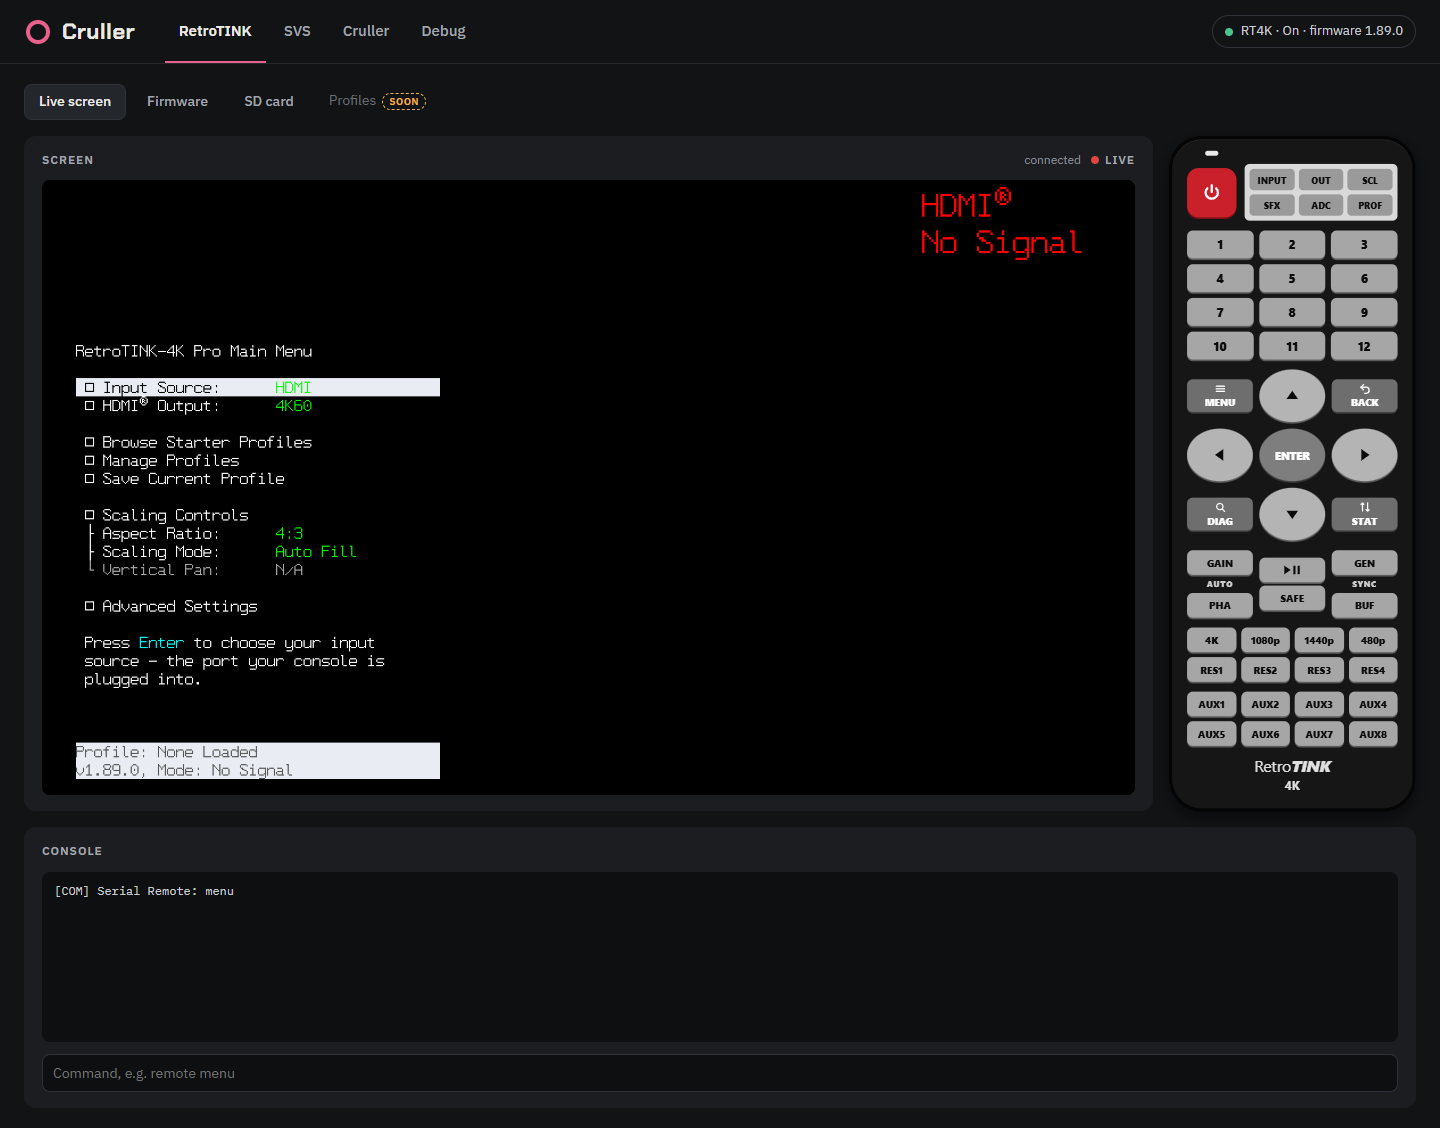
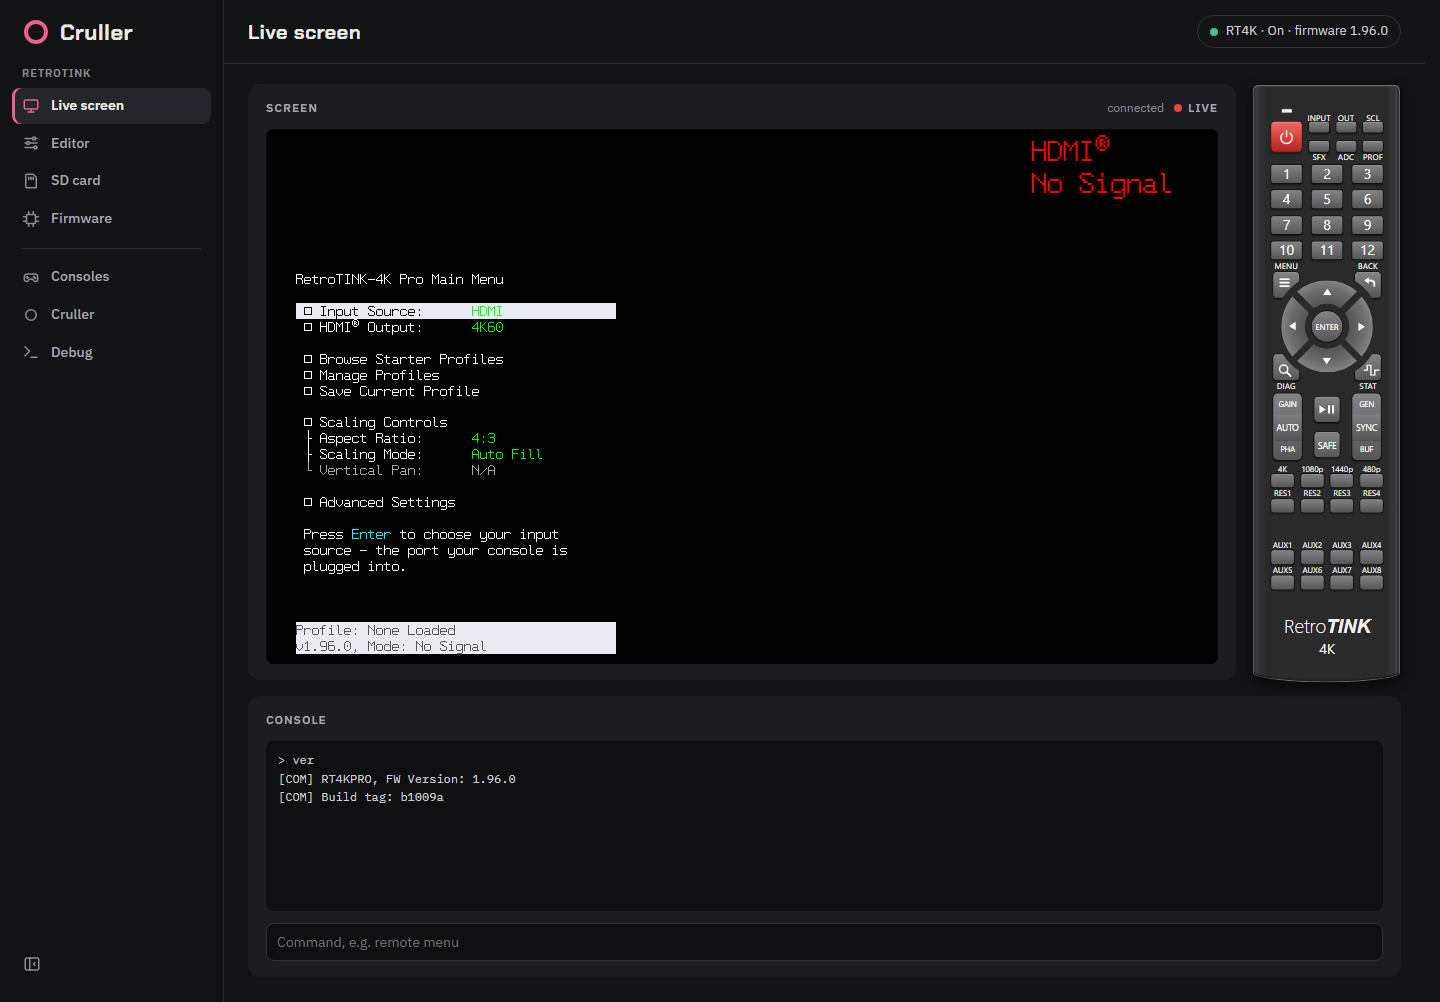
README: the screenshots as the page is now, the editor's own, Pico SDK 2.3.1
Live screen, SD card, Firmware and Cruller retaken on the RT4K (they had the
row of tabs from before the sidebar), and the profile editor's added with a
section of its own. The Pico SDK and picotool as CI builds with them: 2.3.1.

diff --git a/README.md b/README.md
@@ -8,7 +8,7 @@ without pulling the card, and let Home Assistant and your SVS switch talk to it.
 
 [![Build](https://github.com/margaale/Cruller/actions/workflows/build.yml/badge.svg?branch=develop)](https://github.com/margaale/Cruller/actions/workflows/build.yml)
 [![Latest release](https://img.shields.io/github/v/release/margaale/Cruller?include_prereleases&label=release)](https://github.com/margaale/Cruller/releases)
-[![Pico SDK 2.3](https://img.shields.io/badge/Pico%20SDK-2.3-C51A4A)](https://github.com/raspberrypi/pico-sdk)
+[![Pico SDK 2.3.1](https://img.shields.io/badge/Pico%20SDK-2.3.1-C51A4A)](https://github.com/raspberrypi/pico-sdk)
 [![License: GPL-3.0](https://img.shields.io/github/license/margaale/Cruller)](LICENSE)
 
 </div>
@@ -17,7 +17,7 @@ Cruller is firmware for a Raspberry Pi Pico 2 W that plugs into the RetroTINK 4K
 where you would otherwise connect a PC. It talks to the RT4K over its USB serial port and serves a
 web page over Wi-Fi, so the scaler can live behind the TV and still be managed from your phone.
 
-![Live screen: the RT4K's menu mirrored live, its remote, and the serial console](docs/images/live-screen.png)
+![Live screen: the RT4K's main menu mirrored live, its remote, and the console with the reply to ver](docs/images/live-screen.png)
 
 > [!NOTE]
 > Cruller is young: every release so far is an alpha.
@@ -145,7 +145,7 @@ it opens from the menu button.
 
 #### Firmware
 
-![The RT4K firmware updater, showing an experimental version and its changelog](docs/images/rt4k-firmware.png)
+![The RT4K firmware updater: the installed version, an experimental one picked and what's new in it](docs/images/rt4k-firmware.png)
 
 Pick **Release** or **Experimental**, then a version, and press **Download and install**. Your
 browser downloads the zip from RetroTINK's firmware repository, checks it against the SHA-256 the
@@ -160,7 +160,7 @@ while it starts, and the files go to the card once it answers.
 
 #### SD card
 
-![The SD card view: the RT4K's card, with upload, new folder, rename and delete](docs/images/sd-card.png)
+![The SD card view in /profile/SVS: each profile with Load, Edit, download, rename and delete, and a tick to edit several together](docs/images/sd-card.png)
 
 Browse the RT4K's SD card, download files, upload them (with the button, or by dropping them on the
 list), make folders, rename, and delete files or whole folders. Transfers go at about 100 KB/s, so a
@@ -172,6 +172,15 @@ In `/profile`, each profile has two more buttons: **Load** (the RT4K loads it; t
 input and output resolution, as the profile was saved) and **Edit** (it opens in the profile editor).
 The one the RT4K has loaded is marked. Tick several (or every one in the folder) and **Edit them
 together**.
+
+#### Editor
+
+![The profile editor: S4_PS2 open from the SD card, its main settings as tiles, the input mode picked, and the advanced settings by menu and page](docs/images/editor.png)
+
+A profile opens from the SD card (**Edit**) or from this computer. It's laid out as the RT4K's menus,
+each setting shown as its OSD shows it; the settings the RT4K keeps per input mode, audio input or
+detected sample rate are edited in the one picked (**Add mode**, **Delete mode**), and **Find a
+setting** goes to any of them.
 
 The editor lists the profiles open beside it, with what's done with them: add more from the SD card
 or this computer, close one, undo, download, save. One shows at a time; with **Multi Edit** on, the
@@ -222,7 +231,7 @@ More in [GAMEID.md](docs/GAMEID.md) and [SVS.md](docs/SVS.md).
 
 ### Cruller
 
-![Cruller: the serial link, Wi-Fi, clients, memory, this Cruller, and its firmware updates](docs/images/cruller-tab.png)
+![Cruller: the serial link with its key-to-screen time, Wi-Fi, clients, memory, this Cruller (0.7.0), and its firmware updates](docs/images/cruller-tab.png)
 
 - **Serial link to the RT4K**: key-to-screen time, bytes lost, traffic, and the adapter's settings.
 - **Wi-Fi**: the network, its signal, and a way to change it.
@@ -329,10 +338,10 @@ and install it again.
 
 ## Building from source
 
-The Pico 2 W build needs the [Pico SDK](https://github.com/raspberrypi/pico-sdk) 2.3,
+The Pico 2 W build needs the [Pico SDK](https://github.com/raspberrypi/pico-sdk) 2.3.1,
 [FreeRTOS-Kernel](https://github.com/raspberrypi/FreeRTOS-Kernel) (Raspberry Pi's fork),
-[TinyUSB](https://github.com/hathach/tinyusb) 0.21.0, the Arm GNU toolchain 14.2,
-[picotool](https://github.com/raspberrypi/picotool) 2.3, CMake, Ninja and Python 3. The exact
+[TinyUSB](https://github.com/hathach/tinyusb) 0.21.0, the Arm GNU toolchain 14.2.Rel1,
+[picotool](https://github.com/raspberrypi/picotool) 2.3.1, CMake, Ninja and Python 3. The exact
 versions CI uses are at the top of [build.yml](.github/workflows/build.yml).
 
 ```bash
